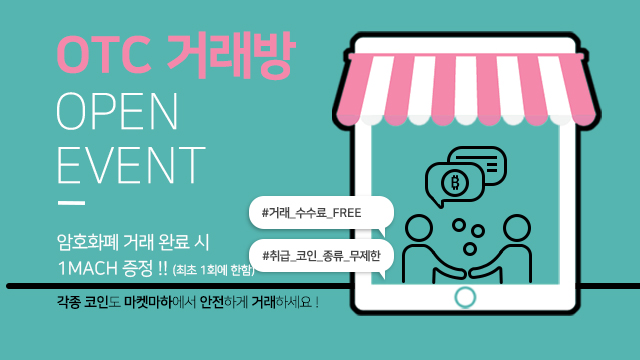
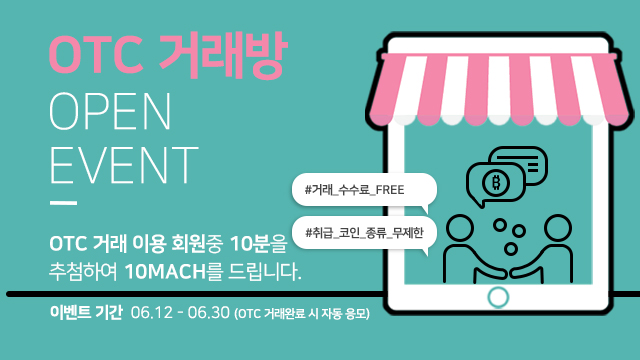
메인 비주얼 이미지 변경

diff --git a/views/v2/main/index.html b/views/v2/main/index.html
@@ -338,14 +338,14 @@
             <section class="visual_sec">
                 <h1 class="blind">메인 비주얼 이미지 영역</h1>
                 <div class="slick_visual">
-                    <!-- <div class="visual_img">
+                    <div class="visual_img">
                         <div class="pc_img">
                             <img src="/static/img/main/main_visual11.jpg" alt="OTC">
                         </div>
                         <div class="mob_img">
                             <img src="/static/img/mob/m_main_visual11.jpg" alt="OTC">
                         </div>
-                    </div>                     -->
+                    </div>                    
                     <div class="visual_img">
                         <a href="/howto/trade/vtr">
                             <div class="pc_img">
